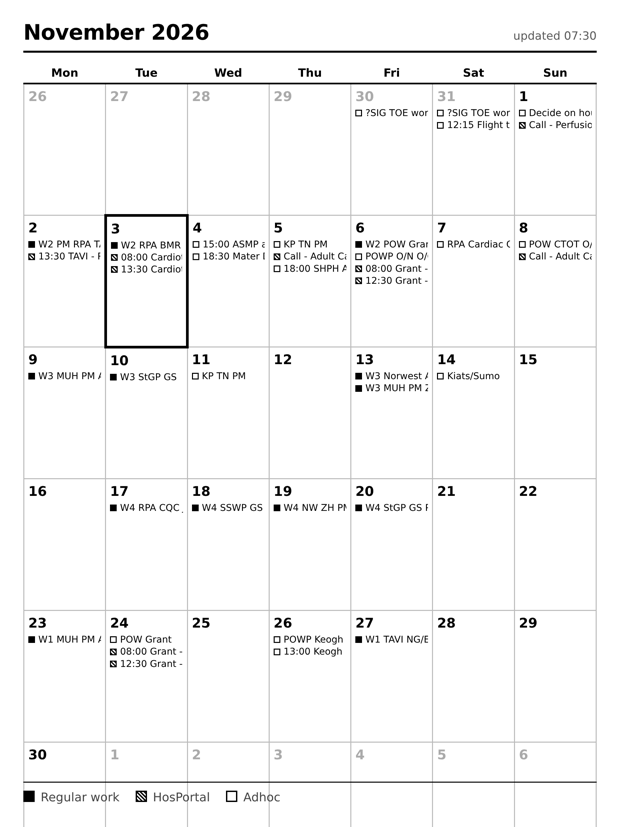
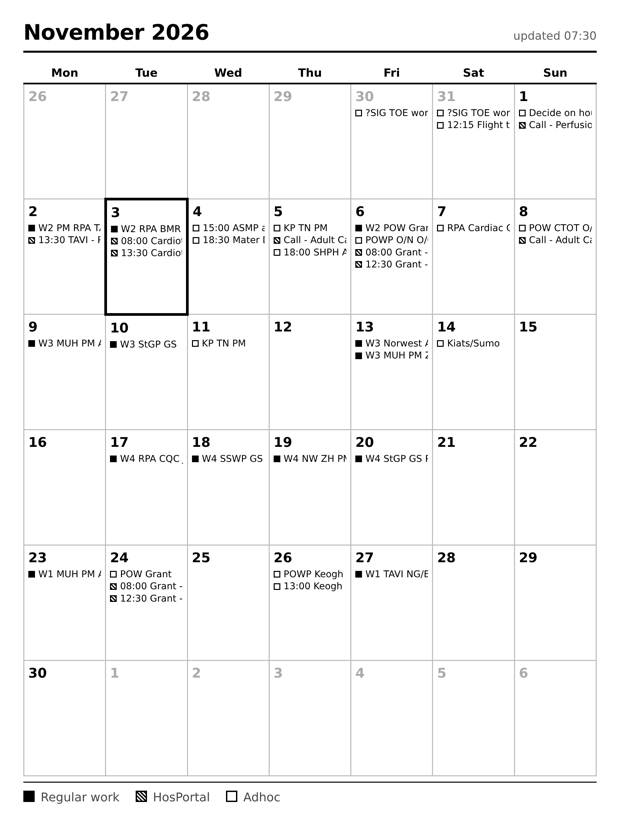
Fix month view row heights
Claude-Session: https://claude.ai/code/session_011br8fb3fSefWnZdc52BCSJ

diff --git a/mock/month.html b/mock/month.html
@@ -28,12 +28,12 @@ h1{font-size:64px;font-weight:700;letter-spacing:-1px}
 .blk .loc{font-size:30px;color:#444}
 .allday{font-size:36px;margin-bottom:24px;display:flex;flex-wrap:wrap;gap:14px 40px}
 /* month */
-table{width:100%;border-collapse:collapse;table-layout:fixed}
+table{width:100%;height:2080px;border-collapse:collapse;table-layout:fixed}
 th{font-size:34px;padding:10px 0;border-bottom:5px solid #000}
-td{height:395px;vertical-align:top;border:3px solid #bbb;padding:10px 12px;font-size:28px;line-height:1.3}
+td{vertical-align:top;border:3px solid #bbb;padding:10px 12px;font-size:28px;line-height:1.3}
 td .n{font-size:40px;font-weight:700;margin-bottom:6px}
 td.today{border:8px solid #000}
 td.other .n{color:#aaa}
 td .e{white-space:nowrap;overflow:hidden;text-overflow:ellipsis;display:flex;align-items:center}
 td .m{width:20px;height:20px;border:3px solid #000;margin:0 10px 0 0;flex:none}
-</style></head><body><div class="hdr"><h1>November 2026</h1><span class="sub">updated 07:30</span></div><table><tr><th>Mon</th><th>Tue</th><th>Wed</th><th>Thu</th><th>Fri</th><th>Sat</th><th>Sun</th></tr><tr><td class=" other"><div class="n">26</div></td><td class=" other"><div class="n">27</div></td><td class=" other"><div class="n">28</div></td><td class=" other"><div class="n">29</div></td><td class=" other"><div class="n">30</div><div class="e adhoc"><span class="m"></span>?SIG TOE workshop conference</div></td><td class=" other"><div class="n">31</div><div class="e adhoc"><span class="m"></span>?SIG TOE workshop conference</div><div class="e adhoc"><span class="m"></span>12:15 Flight to Sydney (JQ 409)</div></td><td class=""><div class="n">1</div><div class="e adhoc"><span class="m"></span>Decide on housed</div><div class="e hos"><span class="m"></span>Call - Perfusion - RPA</div></td></tr><tr><td class=""><div class="n">2</div><div class="e work"><span class="m"></span>W2 PM RPA TAVI</div><div class="e hos"><span class="m"></span>13:30 TAVI - RPA</div></td><td class="today"><div class="n">3</div><div class="e work"><span class="m"></span>W2 RPA BMR CW</div><div class="e hos"><span class="m"></span>08:00 Cardiothoracic (Cao) - RPA</div><div class="e hos"><span class="m"></span>13:30 Cardiothoracic (Cao) - RPA</div></td><td class=""><div class="n">4</div><div class="e adhoc"><span class="m"></span>15:00 ASMP and Department of Health catch-ups</div><div class="e adhoc"><span class="m"></span>18:30 Mater Department of Anaesthesia Meeting</div></td><td class=""><div class="n">5</div><div class="e adhoc"><span class="m"></span>KP TN PM</div><div class="e hos"><span class="m"></span>Call - Adult Cardiac - POWPH</div><div class="e adhoc"><span class="m"></span>18:00 SHPH Anaesthetic M&amp;M Committee Meeting</div></td><td class=""><div class="n">6</div><div class="e work"><span class="m"></span>W2 POW Grant</div><div class="e adhoc"><span class="m"></span>POWP O/N O/C</div><div class="e hos"><span class="m"></span>08:00 Grant - POWPH</div><div class="e hos"><span class="m"></span>12:30 Grant - POWPH</div></td><td class=""><div class="n">7</div><div class="e adhoc"><span class="m"></span>RPA Cardiac O/C</div></td><td class=""><div class="n">8</div><div class="e adhoc"><span class="m"></span>POW CTOT O/C</div><div class="e hos"><span class="m"></span>Call - Adult Cardiac - POWPH</div></td></tr><tr><td class=""><div class="n">9</div><div class="e work"><span class="m"></span>W3 MUH PM AD/KA EL</div></td><td class=""><div class="n">10</div><div class="e work"><span class="m"></span>W3 StGP GS</div></td><td class=""><div class="n">11</div><div class="e adhoc"><span class="m"></span>KP TN PM</div></td><td class=""><div class="n">12</div></td><td class=""><div class="n">13</div><div class="e work"><span class="m"></span>W3 Norwest AM ZH</div><div class="e work"><span class="m"></span>W3 MUH PM ZH</div></td><td class=""><div class="n">14</div><div class="e adhoc"><span class="m"></span>Kiats/Sumo</div></td><td class=""><div class="n">15</div></td></tr><tr><td class=""><div class="n">16</div></td><td class=""><div class="n">17</div><div class="e work"><span class="m"></span>W4 RPA CQC JI</div></td><td class=""><div class="n">18</div><div class="e work"><span class="m"></span>W4 SSWP GS</div></td><td class=""><div class="n">19</div><div class="e work"><span class="m"></span>W4 NW ZH PM</div></td><td class=""><div class="n">20</div><div class="e work"><span class="m"></span>W4 StGP GS PM</div></td><td class=""><div class="n">21</div></td><td class=""><div class="n">22</div></td></tr><tr><td class=""><div class="n">23</div><div class="e work"><span class="m"></span>W1 MUH PM AD/KA</div></td><td class=""><div class="n">24</div><div class="e adhoc"><span class="m"></span>POW Grant</div><div class="e hos"><span class="m"></span>08:00 Grant - POWPH</div><div class="e hos"><span class="m"></span>12:30 Grant - POWPH</div></td><td class=""><div class="n">25</div></td><td class=""><div class="n">26</div><div class="e adhoc"><span class="m"></span>POWP Keogh AM</div><div class="e adhoc"><span class="m"></span>13:00 Keogh Private Theatres</div></td><td class=""><div class="n">27</div><div class="e work"><span class="m"></span>W1 TAVI NG/EL</div></td><td class=""><div class="n">28</div></td><td class=""><div class="n">29</div></td></tr><tr><td class=""><div class="n">30</div></td><td class=" other"><div class="n">1</div></td><td class=" other"><div class="n">2</div></td><td class=" other"><div class="n">3</div></td><td class=" other"><div class="n">4</div></td><td class=" other"><div class="n">5</div></td><td class=" other"><div class="n">6</div></td></tr></table><div class="legend"><span class="ev work"><span class="m"></span>Regular work</span><span class="ev hos"><span class="m"></span>HosPortal</span><span class="ev adhoc"><span class="m"></span>Adhoc</span></div></body></html>
+</style></head><body><div class="hdr"><h1>November 2026</h1><span class="sub">updated 07:30</span></div><table><tr><th>Mon</th><th>Tue</th><th>Wed</th><th>Thu</th><th>Fri</th><th>Sat</th><th>Sun</th></tr><tr style="height:346px"><td class=" other"><div class="n">26</div></td><td class=" other"><div class="n">27</div></td><td class=" other"><div class="n">28</div></td><td class=" other"><div class="n">29</div></td><td class=" other"><div class="n">30</div><div class="e adhoc"><span class="m"></span>?SIG TOE workshop conference</div></td><td class=" other"><div class="n">31</div><div class="e adhoc"><span class="m"></span>?SIG TOE workshop conference</div><div class="e adhoc"><span class="m"></span>12:15 Flight to Sydney (JQ 409)</div></td><td class=""><div class="n">1</div><div class="e adhoc"><span class="m"></span>Decide on housed</div><div class="e hos"><span class="m"></span>Call - Perfusion - RPA</div></td></tr><tr style="height:346px"><td class=""><div class="n">2</div><div class="e work"><span class="m"></span>W2 PM RPA TAVI</div><div class="e hos"><span class="m"></span>13:30 TAVI - RPA</div></td><td class="today"><div class="n">3</div><div class="e work"><span class="m"></span>W2 RPA BMR CW</div><div class="e hos"><span class="m"></span>08:00 Cardiothoracic (Cao) - RPA</div><div class="e hos"><span class="m"></span>13:30 Cardiothoracic (Cao) - RPA</div></td><td class=""><div class="n">4</div><div class="e adhoc"><span class="m"></span>15:00 ASMP and Department of Health catch-ups</div><div class="e adhoc"><span class="m"></span>18:30 Mater Department of Anaesthesia Meeting</div></td><td class=""><div class="n">5</div><div class="e adhoc"><span class="m"></span>KP TN PM</div><div class="e hos"><span class="m"></span>Call - Adult Cardiac - POWPH</div><div class="e adhoc"><span class="m"></span>18:00 SHPH Anaesthetic M&amp;M Committee Meeting</div></td><td class=""><div class="n">6</div><div class="e work"><span class="m"></span>W2 POW Grant</div><div class="e adhoc"><span class="m"></span>POWP O/N O/C</div><div class="e hos"><span class="m"></span>08:00 Grant - POWPH</div><div class="e hos"><span class="m"></span>12:30 Grant - POWPH</div></td><td class=""><div class="n">7</div><div class="e adhoc"><span class="m"></span>RPA Cardiac O/C</div></td><td class=""><div class="n">8</div><div class="e adhoc"><span class="m"></span>POW CTOT O/C</div><div class="e hos"><span class="m"></span>Call - Adult Cardiac - POWPH</div></td></tr><tr style="height:346px"><td class=""><div class="n">9</div><div class="e work"><span class="m"></span>W3 MUH PM AD/KA EL</div></td><td class=""><div class="n">10</div><div class="e work"><span class="m"></span>W3 StGP GS</div></td><td class=""><div class="n">11</div><div class="e adhoc"><span class="m"></span>KP TN PM</div></td><td class=""><div class="n">12</div></td><td class=""><div class="n">13</div><div class="e work"><span class="m"></span>W3 Norwest AM ZH</div><div class="e work"><span class="m"></span>W3 MUH PM ZH</div></td><td class=""><div class="n">14</div><div class="e adhoc"><span class="m"></span>Kiats/Sumo</div></td><td class=""><div class="n">15</div></td></tr><tr style="height:346px"><td class=""><div class="n">16</div></td><td class=""><div class="n">17</div><div class="e work"><span class="m"></span>W4 RPA CQC JI</div></td><td class=""><div class="n">18</div><div class="e work"><span class="m"></span>W4 SSWP GS</div></td><td class=""><div class="n">19</div><div class="e work"><span class="m"></span>W4 NW ZH PM</div></td><td class=""><div class="n">20</div><div class="e work"><span class="m"></span>W4 StGP GS PM</div></td><td class=""><div class="n">21</div></td><td class=""><div class="n">22</div></td></tr><tr style="height:346px"><td class=""><div class="n">23</div><div class="e work"><span class="m"></span>W1 MUH PM AD/KA</div></td><td class=""><div class="n">24</div><div class="e adhoc"><span class="m"></span>POW Grant</div><div class="e hos"><span class="m"></span>08:00 Grant - POWPH</div><div class="e hos"><span class="m"></span>12:30 Grant - POWPH</div></td><td class=""><div class="n">25</div></td><td class=""><div class="n">26</div><div class="e adhoc"><span class="m"></span>POWP Keogh AM</div><div class="e adhoc"><span class="m"></span>13:00 Keogh Private Theatres</div></td><td class=""><div class="n">27</div><div class="e work"><span class="m"></span>W1 TAVI NG/EL</div></td><td class=""><div class="n">28</div></td><td class=""><div class="n">29</div></td></tr><tr style="height:346px"><td class=""><div class="n">30</div></td><td class=" other"><div class="n">1</div></td><td class=" other"><div class="n">2</div></td><td class=" other"><div class="n">3</div></td><td class=" other"><div class="n">4</div></td><td class=" other"><div class="n">5</div></td><td class=" other"><div class="n">6</div></td></tr></table><div class="legend"><span class="ev work"><span class="m"></span>Regular work</span><span class="ev hos"><span class="m"></span>HosPortal</span><span class="ev adhoc"><span class="m"></span>Adhoc</span></div></body></html>
